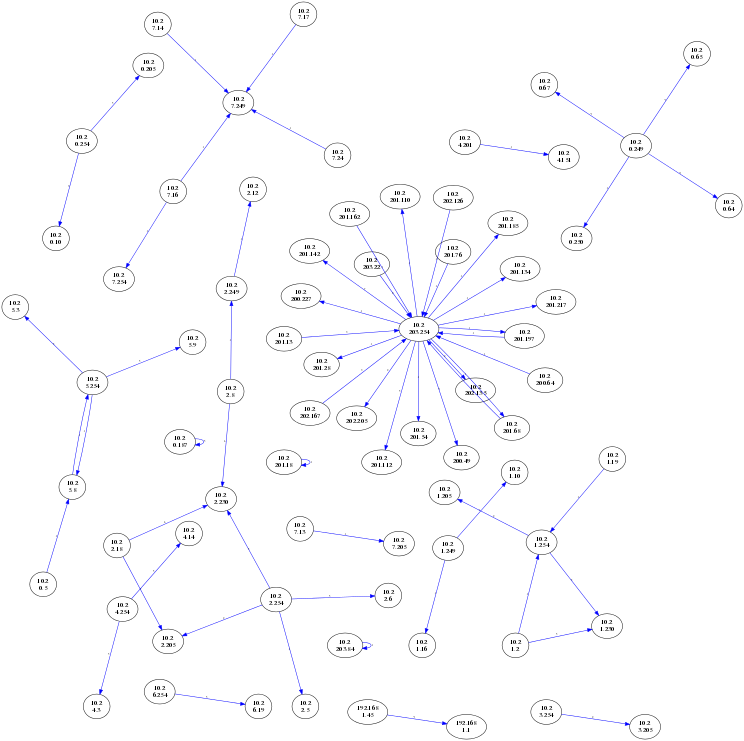
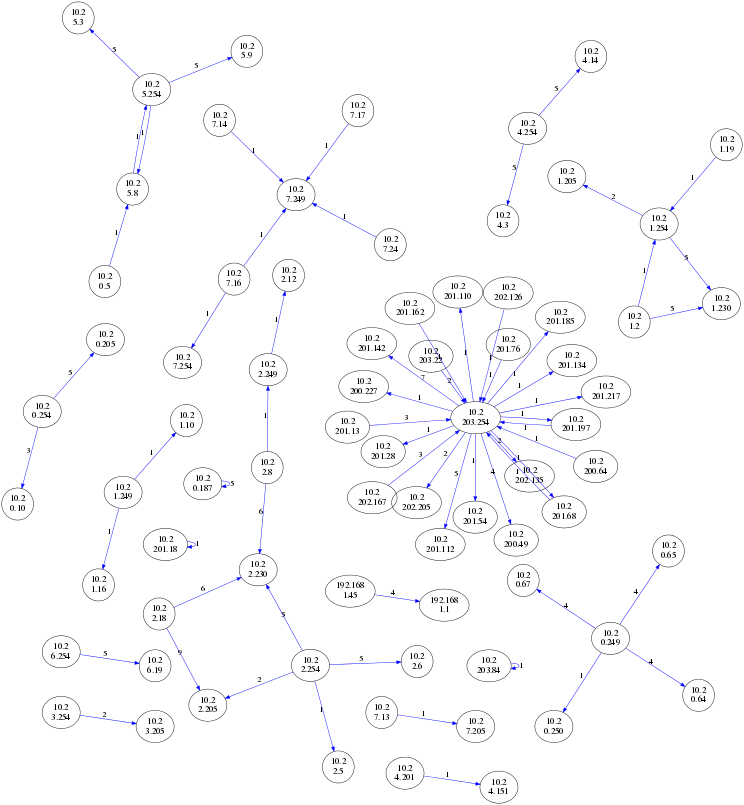
Mejoras en los graficos e informe

diff --git a/informe/red4.tex b/informe/red4.tex
@@ -1,40 +1,46 @@
 \subsection{Red Laboratorios DC}
 
-Para este experimento, capturamos los paquetes de la LAN Wi-Fi Laboratorios-DC del Departamento de Computació de la FCEyN de la UBA. La medición fue realizada un día Lunes desde las 15hs y durante 15 minutos. La cantidad de paquetes capturados es de 4000. De todos estos, sólo 164 corresponden al protocolo ARP.
+Para este experimento, capturamos los paquetes de la LAN Wi-Fi Laboratorios-DC del Departamento de Computació de la FCEyN de la UBA. La medición fue realizada un día Lunes desde las 15hs y durante 15 minutos. La cantidad de paquetes capturados es de 4000. De estos, 164 corresponden al protocolo ARP.
 
 \begin{figure}[H]
        \centering
        \includegraphics[width=1\textwidth]{../resultados/labo-corrida3/histogram_types.png}
        \caption{Protocolos de los paquetes capturados}
-       \label{red-hogarena-types}
+       \label{red-Starbucks-types}
 \end{figure}
 
 \begin{figure}[H]
        \centering
        \includegraphics[width=1\textwidth]{../resultados/labo-corrida3/histogram_types_information.png}
        \caption{Información de los protocolos de los paquetes capturados}
-       \label{red-hogarena-types-info}
+       \label{red-Starbucks-types-information}
 \end{figure}
 
+Como podemos observar también en este experimento, de acuerdo a nuestra definición de protocolo distinguido, el protocolo IPv4 sería el único distinguido en esta fuente. Es razonable, ya que la cantidad de paquetes IPv4 es mucho mayor que la cantidad de paquetes IPv6 y ARP. La información de los paquetes IPv4 es \textbf{0.0988917569855}, mientras que la entropía de la fuente es \textbf{0.440025436837}. Se observa como la información es claramente menor a la entropía.
 
 \begin{figure}[H]
        \centering
        \includegraphics[width=1\textwidth]{../resultados/labo-corrida3/histogram_dst.png}
        \caption{IPs destino de los paquetes ARP}
-       \label{red-hogarena-arp-destination}
+       \label{red-Starbucks-dst}
 \end{figure}
+
 
 \begin{figure}[H]
        \centering
        \includegraphics[width=1\textwidth]{../resultados/labo-corrida3/histogram_dst_information.png}
        \caption{Información de IPs destino de los paquetes ARP}
-       \label{red-hogarena-arp-destination-info}
+       \label{red-Starbucks-dst-information}
 \end{figure}
+
 
 \begin{figure}[H]
        \centering
        \includegraphics[width=1\textwidth]{../resultados/labo-corrida3/network.png}
        \caption{Tráfico de paquetes ARP}
-       \label{red-hogarena-arp-traffic}
+       \label{red-Starbucks-dst-information}
 \end{figure}
 
+Vemos como la IP \textbf{10.2.203.254} recibe una mayor cantidad de paquetes que casi todas las demás IPs, y además es un nodo distinguido por ser su información menor a la entropía. Apoyados en eso y viendo el gráfico de los nodos, podemos afirmar que es la IP del Router WiFi del lugar.
+
+Por otro lado, la IP \textbf{10.2.2.230} recibe una mayor cantida de paquetes y  también es un nodo distinguido.

diff --git a/graph_all.py b/graph_all.py
@@ -162,7 +162,7 @@ def plot_histogram_dst():
 
 
 def plot_network():
-    graph = pydot.Dot(graph_type='digraph', size="7.75,10.25")
+    graph = pydot.Dot(graph_type='digraph', size="7.75,10.25", fontsize="15.0")
     for dist in dist_dictionary:
         n_from = str(dist.split('-')[0])
         n_to = str(dist.split('-')[1])
@@ -171,7 +171,11 @@ def plot_network():
         pieces = n_to.split('.')
         n_to = '.'.join(pieces[0:2]) + '\n' + '.'.join(pieces[2:4])
         label = str(dist_dictionary.get(dist))
-        edge = pydot.Edge(n_from, n_to, label=label, color="blue", fontsize="6.0", len='3.0')
+        node_from = pydot.Node(n_from, fontsize="20.0")
+        node_to = pydot.Node(n_to, fontsize="20.0")
+        graph.add_node(node_from)
+        graph.add_node(node_to)
+        edge = pydot.Edge(n_from, n_to, label=label, color="blue", fontsize="18.0", len='3.0')
         graph.add_edge(edge)
     filename = 'network.png'.format(basename='test')
     graph.write_png(filename, prog='neato')

diff --git a/informe/red3.tex b/informe/red3.tex
@@ -41,5 +41,5 @@ Como podemos observar, de acuerdo a nuestra definición de protocolo distinguido
        \label{red-Starbucks-dst-information}
 \end{figure}
 
-Apoyándonos en el hecho de que la ip \textbf{102.54.77.1} aparece con una gran ventaja respecto a las otras ip en cantidad, que además es un nodo distinguido por ser su información menor a la entropía y observando el gráfico de los nodos podemos concluir que es la ip del router wifi del local.
+Apoyándonos en el hecho de que la IP \textbf{102.54.77.1} aparece con una gran ventaja respecto a las otras ip en cantidad, que además es un nodo distinguido por ser su información menor a la entropía y observando el gráfico de los nodos podemos concluir que es la IP del Router WiFi del local.
 
